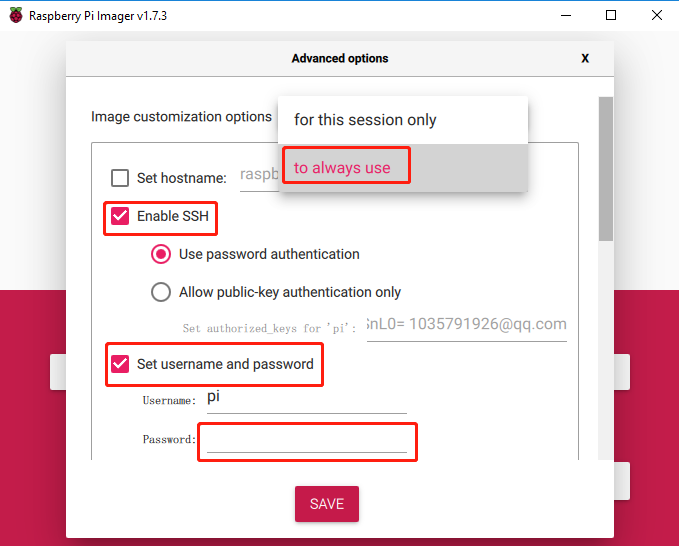
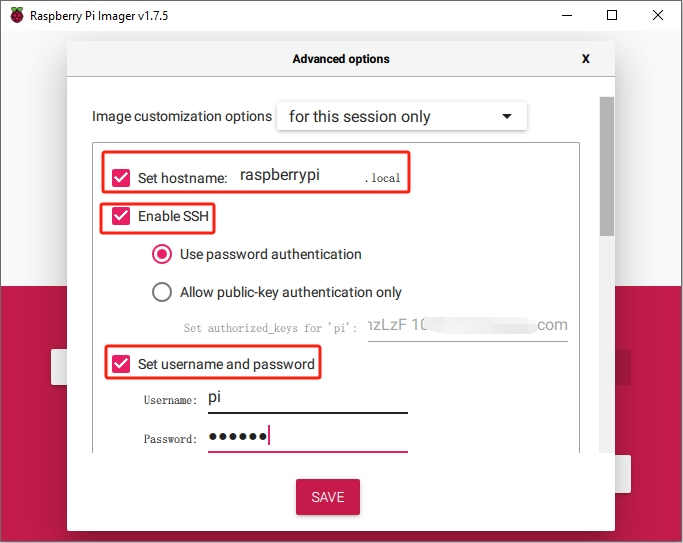
update os version

diff --git a/docs/source/python/python_start/installing_the_os.rst b/docs/source/python/python_start/installing_the_os.rst
@@ -1,7 +1,7 @@
 Installing the OS
 =======================
 
-**Required Components**
+**Required Components**
 
 ================== ======================
 Any Raspberry Pi   1 \* Personal Computer
@@ -29,7 +29,7 @@ When you launch the installer, your operating system may try to block
 you from running it. For example, on Windows I receive the following
 message:
 
-If this pops up, click on **More info** and then **Run anyway**, then
+If this pops up, click on **More info** and then **Run anyway**, then
 follow the instructions to install the Raspberry Pi Imager.
 
 .. image:: img/image12.png
@@ -41,42 +41,14 @@ Insert your SD card into the computer or laptop SD card slot.
 
 **Step 4**
 
-In the Raspberry Pi Imager, select the OS that you want to install and
-the SD card you would like to install it on.
+In the Raspberry Pi Imager, click **CHOOSE OS** -> **Raspberry Pi OS(Legacy)**.
 
-.. image:: img/sp230607_161330.png
+.. warning::
+    * Please do not install the **Bookworm** version as the speaker will not work.
+    * You need to install the **Raspberry Pi OS (Legacy)** version - **Debian Bullseye**.
+
+.. image:: img/3d33.png
     :align: center
-
-.. note:: 
-
-    1) You will need to be connected to the internet the first time.
-
-    2) That OS will then be stored for future offline use(lastdownload.cache, C:/Users/yourname/AppData/Local/Raspberry Pi/Imager/cache). So the next time you open the software, it will have the display "Released: date, cached on your computer".
-
-
-.. Download the `raspios_armhf-2020-05-28 <https://downloads.raspberrypi.org/raspios_armhf/images/raspios_armhf-2021-05-28/2021-05-07-raspios-buster-armhf.zip>`_ image and select it in Raspberry Pi Imager.
-
-.. .. image:: img/otherOS.png
-..     :align: center
-
-.. .. warning::
-..     Raspberry Pi OS has major changes after the 2021-05-28 version, which may cause some functions to be unavailable. Please do not use the latest version for now.
-
-
-.. .. warning::
-
-..     Upgrading the Raspberry Pi OS to **Debian Bullseye** will cause some features to not work, so it is recommended to continue using the **Debian Buster** version.
-
-.. In the Raspberry Pi Imager, click **CHOOSE OS** -> **Raspberry Pi OS(other)**.
-
-.. .. image:: img/3d33.png
-..     :align: center
-
-.. Scroll down to the end of the newly opened page and you will see **Raspberry Pi OS(Legacy)** and **Raspberry Pi OS Lite(Legacy)**, these are security updates for Debian Buster, the difference between them is with or without the desktop.
-.. It is recommended to install **Raspberry Pi OS(Legacy)**, the system with the desktop.
-
-.. .. image:: img/3d34.png
-..     :align: center
 
 
 **Step 5**
@@ -88,11 +60,13 @@ Select the SD card you are using.
 
 **Step 6**
 
-To open the advanced options page, click the setting button (appears after selecting operating system) or press Ctrl+Shift+X. 
-Enable ssh and set the username and name. You can choose to always use this image customization options.
+To open the advanced options page, click the **setting** button (appears after selecting operating system) or press **Ctrl+Shift+X**. 
 
-.. note::
-    When the Set hostname box is not checked, the default hostname will still be ``raspberrypi``, and we will use this hostname to access the Raspberry Pi remotely.
+Now, set hostname, enable ssh and set the username and password.
+
+.. warning::
+
+    Make sure to note down the ``hostname``, ``username``, and ``password``; they're crucial for later remote access to the Raspberry Pi.
 
 .. image:: img/image15.png
     :align: center
